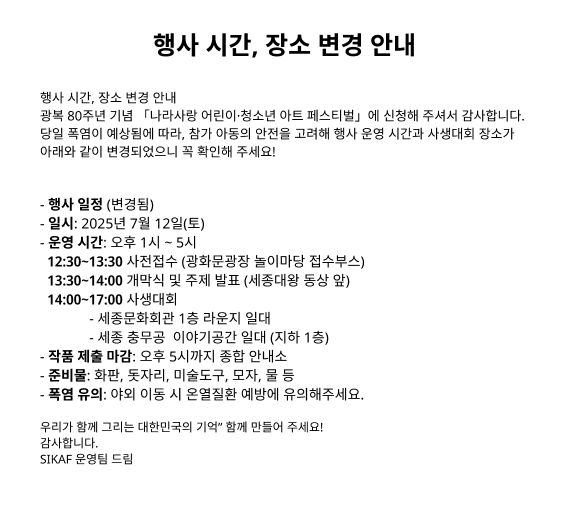
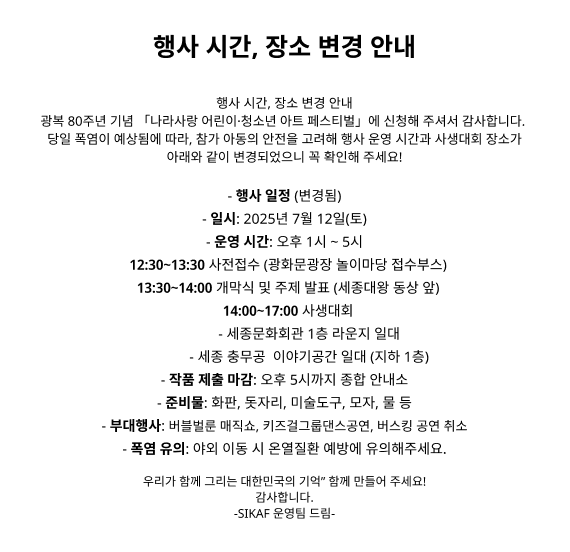
ico 관련 파일 제거

Changed region(s): [[0.0596, 0.3378, 0.8351, 0.952], [0.0596, 0.1536, 0.9246, 0.3071], [0.2684, 0.0614, 0.7158, 0.1228]]

diff --git a/src/page/Notice.js b/src/page/Notice.js
@@ -67,7 +67,7 @@ export default function Notice() {
                         fontWeight: 700,
                     }}
                 >
-                    행사 시간, 장소 변경안내
+                    행사 변경 안내
                 </div>
             </div>
 
@@ -75,6 +75,7 @@ export default function Notice() {
             <div style={{width: '100%', maxWidth: 1000, paddingLeft: isDesktop ? 45 : 0, paddingBottom: 50, margin : '0px auto'}}>
 
                 <div style={{maxWidth: 1000, border: '1px solid lightGray', textAlign: 'center', padding: '50px 20px'}}>
+                    <div style={{fontSize : 40, fontWeight : 800, paddingBottom : 20}}>행사 변경 안내</div>
                     <div style={{fontSize: 20, fontWeight: 800}}>
                         광복 80주년 기념 「나라사랑 어린이·청소년 아트 페스티벌」에 신청해 주셔서 감사합니다
                     </div>
@@ -84,7 +85,7 @@ export default function Notice() {
                     </div>
 
 
-                    <div style={{paddingTop: 20}}>
+                    <div style={{paddingTop: 20, lineHeight : 2}}>
                         <span style={{fontWeight: 700}}> 행사일정</span> (변경됨) <br/>
 
                         <span style={{fontWeight: 700}}>일시</span>: 2025년 7월 12일(토) <br/>
@@ -101,6 +102,9 @@ export default function Notice() {
                         <br/>
                         <span style={{fontWeight: 700}}>작품 제출 마감</span>: 오후 5시까지 종합 안내소 <br/>
                         <span style={{fontWeight: 700}}>준비물</span>: 화판, 돗자리, 미술도구, 모자, 물 등 <br/>
+                        <span style={{fontWeight: 700}}>부대행사 취소 안내</span>:  버블벌룬 매직쇼, 키즈걸그룹댄스공연, 버스킹 공연 취소
+                        <br/>
+
                         <span style={{fontWeight: 700}}>폭염유의</span>: 야외 이동 시 온열질환 예방에 유의해주세요. <br/>
                     </div>
                     <div style={{height: 30}}/>

diff --git a/src/page/Main.js b/src/page/Main.js
@@ -112,7 +112,7 @@ export default function Main() {
                     <img src="https://sikaf.co.kr/icon/Close.svg" alt=""/>
                 </div>
                 <img
-                    style={{height : '80vh'}}
+                    style={{height : '70vh'}}
                     src="/notice.png"
                     alt=""
                 />
